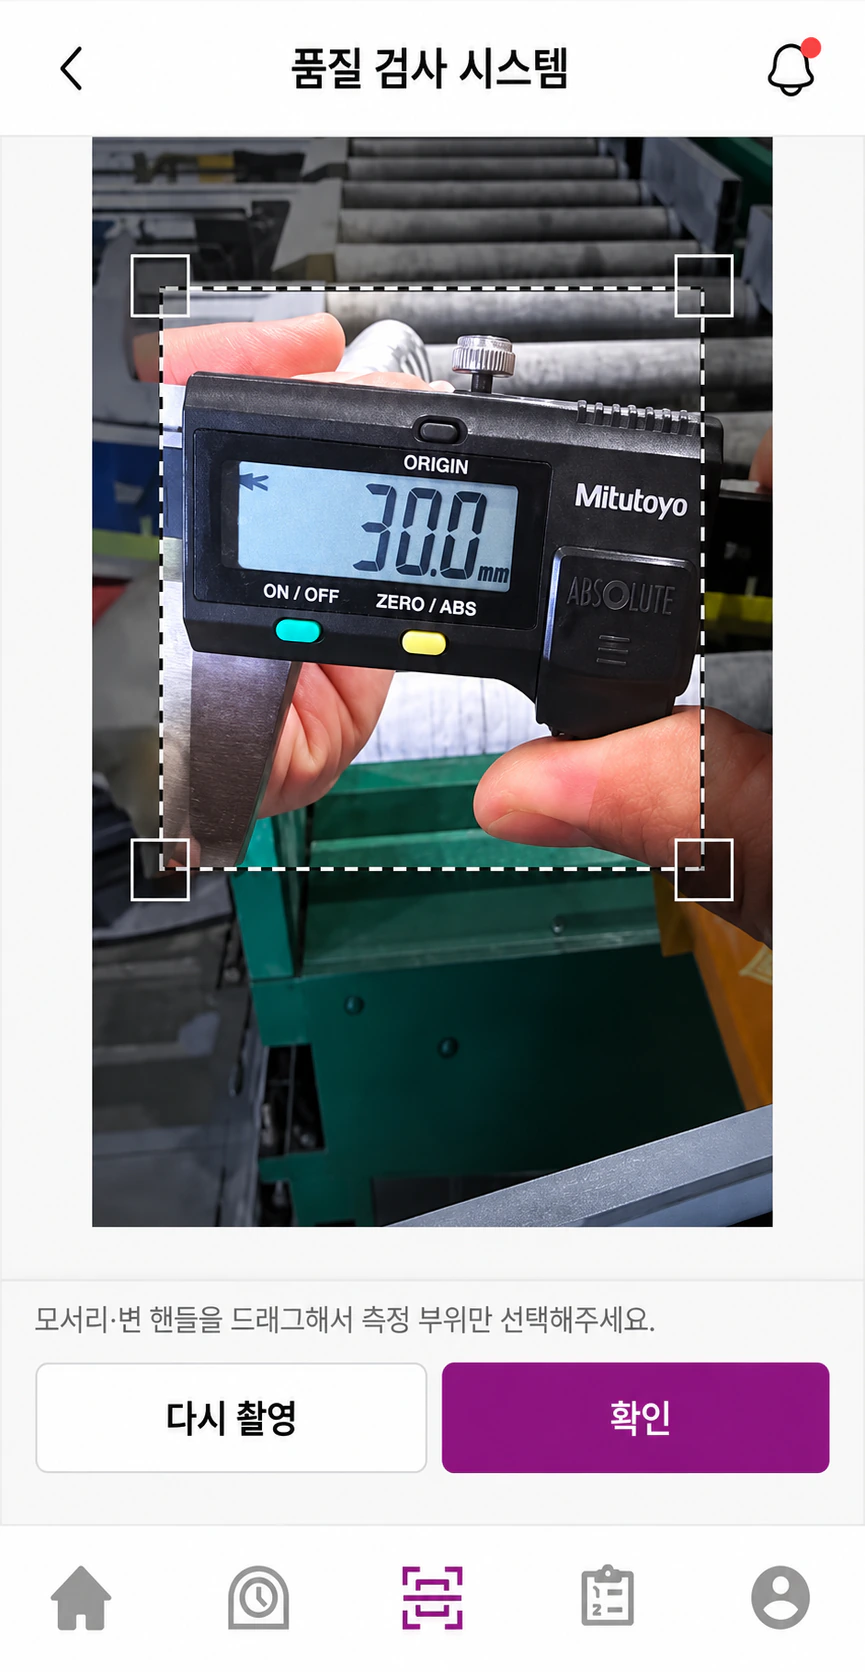
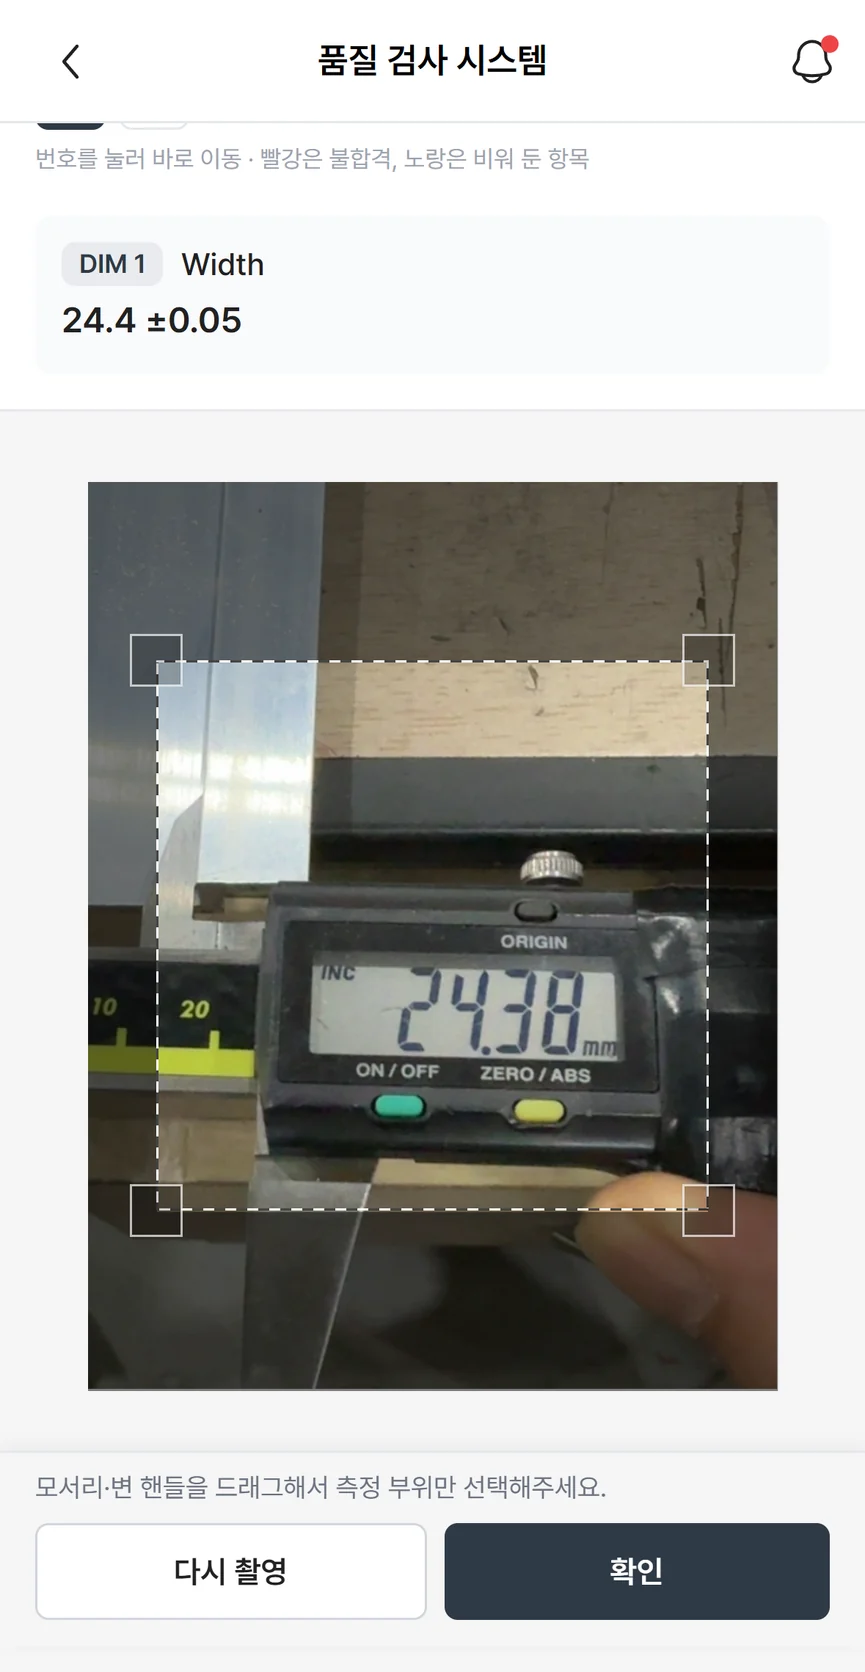
feat: 헤더 데모 신청 버튼, 첫 화면 문구 강조, 현황판 아래 버튼은 문의 폼으로, 앱 캡처를 CES 최종 UI로
- 헤더에 데모 신청 버튼: 문의 폼이 있는 페이지는 폼으로 스크롤, 개인정보처리방침에서는 대화상자
- 휴대폰 헤더는 로고·데모 신청·메뉴만, KOR/ENG 와 테마는 메뉴 시트로
- 첫 화면: 큰 체크 아이콘 대신 "전용 측정 장비·센서 공사 불필요"를 굵게, 아래에 구성(스마트폰·서버 PC·모니터),
  "대구 본사 공장 사내 검증 · IATF 16949"는 배지로
- 현황판 데모 아래 "우리 현장에 적용 문의"는 페이지 끝 문의 폼으로 이동
- 촬영·자르기·OCR 입력(폰), 순회검사 결재(웹), 일일 품질 요약 보고서를 CES 최종 캡처(국문·영문)로 교체, 대체 문구 갱신

diff --git a/src/components/layout/Nav.tsx b/src/components/layout/Nav.tsx
@@ -14,6 +14,7 @@ import { setTheme, useTheme } from '../../lib/theme';
 import { LG, pad2 } from '../../lib/env';
 import { cn } from '../../lib/cn';
 import { afterDialogEntry, useBackToClose } from '../../lib/history';
+import { openInquiry } from '../../lib/inquiry';
 import { Img } from '../Img';
 
 const LINKS = ['/qac-flow', '/data'] as const satisfies readonly Page[];
@@ -33,6 +34,9 @@ export function Nav({ page }: { page: Page }) {
   const closeSheet = () => sheet.current?.close();
   useBackToClose(sheetOpen, closeSheet);
   // a page link in the sheet: the sheet closes (taking its history entry back off), then the page opens
+  // the header's demo button: down to the form at the end of the page, or, on a page without one (the
+  // privacy policy), the same form in its dialog
+  const demo = (e: MouseEvent<HTMLAnchorElement>) => { if (!document.getElementById('contact')) openInquiry('header')(e); };
   const openFromSheet = (e: MouseEvent<HTMLAnchorElement>) => {
     if (e.metaKey || e.ctrlKey || e.shiftKey || e.altKey) return;
     e.preventDefault();
@@ -40,6 +44,26 @@ export function Nav({ page }: { page: Page }) {
     afterDialogEntry(() => router.push(href));
     closeSheet();
   };
+  // KOR / ENG: links to this page in the other language
+  const langs = (
+    <span className="mono flex gap-0.5 text-mute">
+      {LANGS.map((l, i) => (
+        <span key={l} className="contents">
+          {i > 0 && <i aria-hidden="true" className="mx-0.5 not-italic opacity-50">/</i>}
+          {l === lang
+            ? <span aria-current="true" lang={l} className="-my-2 px-1 py-2 font-medium text-fg">{m.langs[l]}</span>
+            : <a href={pathOf(page, l)} hrefLang={l} lang={l} onClick={() => noteLangPosition(page)}
+              className="-my-2 px-1 py-2 transition-colors duration-300 hover:text-fg-2">{m.langs[l]}</a>}
+        </span>
+      ))}
+    </span>
+  );
+  const themeButton = (
+    <button type="button" onClick={() => setTheme(theme === 'dark' ? 'light' : 'dark')} aria-label={theme === 'dark' ? m.theme.toLight : m.theme.toDark} className={ROUND_BTN}>
+      <SunIcon className="col-start-1 row-start-1 transition-[opacity,rotate] duration-500 ease-out light:-rotate-90 light:opacity-0" />
+      <MoonIcon className="col-start-1 row-start-1 rotate-90 opacity-0 transition-[opacity,rotate] duration-500 ease-out light:rotate-0 light:opacity-100" />
+    </button>
+  );
   return (
     <>
     <header id="nav" className="fixed inset-x-0 top-0 z-100 booting:opacity-0">
@@ -70,21 +94,11 @@ export function Nav({ page }: { page: Page }) {
             <i aria-hidden="true" className="not-italic opacity-50">|</i>
             <span aria-current="page" className="font-medium text-fg">{m.sites.solution}</span>
           </nav>
-          <span className="mono flex gap-0.5 text-mute max-sm:text-micro">
-            {LANGS.map((l, i) => (
-              <span key={l} className="contents">
-                {i > 0 && <i aria-hidden="true" className="mx-0.5 not-italic opacity-50">/</i>}
-                {l === lang
-                  ? <span aria-current="true" lang={l} className="-my-2 px-1 py-2 font-medium text-fg max-2xs:px-0.5">{m.langs[l]}</span>
-                  : <a href={pathOf(page, l)} hrefLang={l} lang={l} onClick={() => noteLangPosition(page)}
-                    className="-my-2 px-1 py-2 transition-colors duration-300 hover:text-fg-2 max-2xs:px-0.5">{m.langs[l]}</a>}
-              </span>
-            ))}
-          </span>
-          <button type="button" onClick={() => setTheme(theme === 'dark' ? 'light' : 'dark')} aria-label={theme === 'dark' ? m.theme.toLight : m.theme.toDark} className={ROUND_BTN}>
-            <SunIcon className="col-start-1 row-start-1 transition-[opacity,rotate] duration-500 ease-out light:-rotate-90 light:opacity-0" />
-            <MoonIcon className="col-start-1 row-start-1 rotate-90 opacity-0 transition-[opacity,rotate] duration-500 ease-out light:rotate-0 light:opacity-100" />
-          </button>
+          {/* on a phone the bar keeps the logo, the demo button and the menu; the language and the mode are in the sheet */}
+          <span className="max-sm:hidden">{langs}</span>
+          <a href="#contact" onClick={demo}
+            className="inline-flex min-h-9 flex-none items-center rounded-full border border-qf bg-qf px-4.5 text-body-sm font-semibold whitespace-nowrap text-on-acc transition-[filter] duration-300 hover:brightness-110 max-sm:min-h-8 max-sm:px-3 max-sm:text-caption">{t.qf.cta.demo}</a>
+          <span className="contents max-sm:hidden">{themeButton}</span>
           <button type="button" onClick={() => { sheet.current?.showModal(); setSheetOpen(true); }} aria-label={m.open} aria-haspopup="dialog" className={cn(ROUND_BTN, 'lg:hidden')}>
             <MenuIcon />
           </button>
@@ -111,6 +125,8 @@ export function Nav({ page }: { page: Page }) {
             ))}
           </ul>
         </nav>
+        {/* on a phone, the language and the mode the bar has no room for */}
+        <div className="mt-6 flex items-center justify-between sm:hidden">{langs}{themeButton}</div>
         <nav aria-label={m.sites.label} className="mt-auto pt-10">
           <span className="mono text-mute">{m.sites.label}</span>
           <ul className="m-0 mt-3 flex list-none flex-wrap gap-2 p-0">

diff --git a/src/views/qac-flow/sections/Intro.tsx b/src/views/qac-flow/sections/Intro.tsx
@@ -1,6 +1,6 @@
+import { CircleCheck, ShieldCheck } from 'lucide-react';
 import { lines, useT } from '../../../i18n';
-import { ICON } from '../../../components/icons';
-import { Band, Eyebrow, H2, Lead, LineIcon, Pill } from '../../../components/ui';
+import { Band, Eyebrow, H2, Lead, Pill } from '../../../components/ui';
 import { openInquiry } from '../../../lib/inquiry';
 import { DEMO_VIDEO, HERO_LOOP, openVideo } from '../../../lib/media';
 import { BOOTH, CES_END } from '../../../lib/site';
@@ -14,10 +14,6 @@ const MARK_PENDING = process.env.NODE_ENV === 'development';
  * the figures up front, and the app in two phones, the front one playing the hero loop over its still */
 export function Intro() {
   const t = useT(), m = t.qf;
-  const figures = [
-    <LineIcon d={ICON.checkCircle} className="size-[0.9em] text-qf-ink" />,
-    <span className="text-unit-lg">2026.06</span>
-  ];
   return (
     <Band id="qf-intro" cover>
       <div className="grid items-center gap-stack-sm md:grid-cols-[minmax(0,1.15fr)_minmax(0,.85fr)]">
@@ -34,15 +30,22 @@ export function Intro() {
               ? <Pill quiet href="#qf-how" aria-haspopup="dialog" onClick={e => { e.preventDefault(); openVideo(true); }}>{t.media.watch(DEMO_VIDEO.seconds)}</Pill>
               : MARK_PENDING && <span aria-hidden="true" className="inline-flex min-h-11 items-center rounded-full border border-dashed border-qf-line px-5.5 py-2.5 text-body-sm text-mute">{t.media.watch(90)} · 영상 자리</span>}
           </div>
-          <ul className="rv m-0 mt-8 grid list-none grid-cols-2 border-t border-line p-0 md:mt-10">
-            {figures.map((fig, i) => (
-              <li key={i} className="grid content-start gap-2 pt-4.5 pr-3 not-first:border-l not-first:border-line not-first:pl-stat-gap">
-                <b className="num flex h-[1em] items-center font-display text-stat leading-display font-extrabold whitespace-nowrap">{fig}</b>
-                <span className="text-caption leading-caption text-fg-2">{m.stats[i]}</span>
-              </li>
-            ))}
+          {/* the claims themselves are the headline: what it doesn't need (and what it does), and since when it runs */}
+          <ul className="rv m-0 mt-8 grid list-none grid-cols-2 border-t border-line p-0 md:mt-10 max-2xs:grid-cols-1">
+            <li className="grid content-start gap-2 pt-5 pr-4">
+              <b className="flex items-start gap-2.5 text-title leading-snug font-semibold text-fg">
+                <CircleCheck aria-hidden="true" className="mt-0.5 size-6 flex-none text-qf-ink" strokeWidth={2} />{m.stats[0]}
+              </b>
+              <span className="text-body-sm leading-caption text-fg-2">{m.kit}</span>
+            </li>
+            <li className="grid content-start gap-2 border-l border-line pt-5 pl-stat-gap max-2xs:border-t max-2xs:border-l-0 max-2xs:pl-0">
+              <b className="num font-display text-stat leading-display font-extrabold whitespace-nowrap text-fg">2026.06</b>
+              <span className="text-body-sm leading-caption font-medium text-fg">{m.stats[1]}</span>
+            </li>
           </ul>
-          <p className="rv mono m-0 mt-4 text-mute">{m.statsNote}</p>
+          <p className="rv m-0 mt-5 inline-flex items-center gap-2 rounded-full border border-qf-line bg-qf-soft px-4 py-2 text-body-sm font-medium text-fg">
+            <ShieldCheck aria-hidden="true" className="size-4.5 flex-none text-qf-ink" strokeWidth={2} />{m.statsNote}
+          </p>
         </div>
         {/* a soft green light behind the phones */}
         <div className="rv relative isolate before:absolute before:inset-[8%_-10%_0] before:-z-1 before:bg-radial-[closest-side] before:from-qf-soft before:to-transparent before:to-70% max-md:before:inset-[8%_0_0]">

diff --git a/src/i18n/locales/en.ts b/src/i18n/locales/en.ts
@@ -57,6 +57,7 @@ export const en: Messages = {
     title: 'Quality inspection without paper check sheets.',
     lead: 'Measure, judge and issue the report, all from one smartphone.\nBuilt and proven in DVISION\'s own factory.',
     stats: ['No dedicated gauges or sensor installation', 'Started running in our own plant'],
+    kit: 'A smartphone, one server PC and a monitor',
     statsNote: 'In-house validation at our Daegu HQ plant · IATF 16949',
     cta: { demo: 'Request a demo', apply: 'Ask about your floor' },
     ces: {
@@ -67,13 +68,13 @@ export const en: Messages = {
       after: 'Missed us at CES 2027? Get the booth demo online'
     },
     alt: {
-      capture: 'Smartphone camera framing the display of a digital caliper reading 30.00 mm',
+      capture: 'Smartphone camera framing the display of a digital caliper reading 24.38 mm',
       ocr: 'App screen: the caliper reading is filled in by OCR and judged as a pass against the tolerance',
       crop: 'App screen: dragging the corner handles of a box to crop the photo down to the caliper reading',
       compare: 'Mobile patrol inspection screen comparing self-inspection and patrol inspection values per dimension, with a mismatch marked as fail',
       photos: 'Side-by-side photos of the same caliper reading taken at self-inspection and at patrol inspection',
-      approval: 'PC web approval screen: self-inspection and patrol inspection results compared, with an Approve and issue report button',
-      report: 'Fully approved inspection report: basic information such as process and machine, the prepared, reviewed and approved signatures, and self and patrol inspection results for each round'
+      approval: 'PC web patrol inspection approval screen: self and patrol inspection values compared per dimension, with Reject and Approve (issue report) buttons',
+      report: 'Daily quality summary report: pass rate, key Cpk, inspection count and issues, an X̄-R control chart, the prepared, reviewed and approved sign-offs and an authenticity QR code'
     },
     problem: {
       kicker: '01 / Problem',

diff --git a/src/i18n/locales/ko.ts b/src/i18n/locales/ko.ts
@@ -68,6 +68,8 @@ export const ko = {
     lead: '스마트폰 하나로 측정, 판정, 보고서 발행까지.\n디비전 공장에서 직접 만들고 검증했습니다.',
     /** the figures up front: what it doesn't need, and since when it runs in our own plant */
     stats: ['전용 측정 장비·센서 공사 불필요', '자사 공장 운영 시작'],
+    /** under the first figure: what it does take */
+    kit: '스마트폰 · 서버 PC 1대 · 모니터면 충분',
     statsNote: '대구 본사 공장 사내 검증 · IATF 16949',
     /** the buttons that lead to the demo request form (#contact) */
     cta: { demo: '데모 신청', apply: '우리 현장에 적용 문의' },
@@ -85,8 +87,8 @@ export const ko = {
       crop: '촬영한 사진에서 모서리 핸들을 끌어 측정값 부위만 잘라내는 화면',
       compare: '모바일 순회검사 결재 화면: 치수별 자주검사와 순회검사 측정값 비교, 불일치 항목은 불합격 표시',
       photos: '자주검사와 순회검사의 측정 사진을 나란히 대조하는 화면',
-      approval: 'PC 웹 결재 화면: 자주검사와 순회검사 결과 비교 후 승인, 보고서 발행 버튼',
-      report: '결재가 끝난 검사보고서: 공정과 설비 등 기본 정보, 작성·검토·승인 서명, 차수별 자주검사와 순회검사 외관 결과'
+      approval: 'PC 웹 순회검사 결재 화면: 치수별 자주검사와 순회검사 측정값 비교, 반려와 승인(보고서 발행) 버튼',
+      report: '일일 품질 요약 보고서: 합격률·대표 Cpk·검사 건수·이상 발생 지표, X̄-R 관리도, 작성·검토·승인 결재와 진위 확인 QR'
     },
     problem: {
       kicker: '01 / Problem',

diff --git a/src/views/qac-flow/sections/Live.tsx b/src/views/qac-flow/sections/Live.tsx
@@ -7,7 +7,6 @@ import { LG, SM } from '../../../lib/env';
 import { useMedia } from '../../../lib/useMedia';
 import { QacMonitor, SCREENS, type MonitorScreen } from '../../../features/qac-monitor/QacMonitor';
 import { QacPhone } from '../../../features/qac-monitor/QacPhone';
-import { openInquiry } from '../../../lib/inquiry';
 import { Head } from '../parts';
 
 const N = SCREENS.length;
@@ -46,7 +45,8 @@ export function Live() {
       </div>
       <div className="flex flex-wrap items-center justify-between gap-x-8 gap-y-4">
         <p className="mono m-0 text-micro text-mute">{l.note}</p>
-        <Pill quiet href="#contact" aria-haspopup="dialog" onClick={openInquiry('live')} className="flex-none">{cta.apply}</Pill>
+        {/* goes down to the demo request form at the end of the page (smoothAnchors glides there) */}
+        <Pill quiet href="#contact" className="flex-none">{cta.apply}</Pill>
       </div>
     </Band>
   );

diff --git a/src/server/inquiry.ts b/src/server/inquiry.ts
@@ -28,7 +28,7 @@ type Lang = 'ko' | 'en';
 const labels: Record<Field, string> = { name: '이름', email: '회사 이메일', company: '회사명' };
 const subjects: Record<Lang, string> = { ko: '[QAC FLOW 데모 신청]', en: '[QAC FLOW 데모 신청 · 영문]' };
 /** which button brought the visitor to the form, and from which page (Resend tags only) */
-const sources = ['hero', 'live', 'partner', 'page'];
+const sources = ['header', 'hero', 'live', 'partner', 'page'];
 const pages = ['/qac-flow', '/data'];
 
 const emailPattern = /^[^\s@<>"(),;:]+@[^\s@<>"(),;:]+\.[^\s@<>"(),;:]+$/;

diff --git a/src/lib/inquiry.ts b/src/lib/inquiry.ts
@@ -6,8 +6,8 @@ import type { MouseEvent } from 'react';
 import type { Lang } from '../i18n';
 import { createStore, useStore } from './store';
 
-/** where the visitor asked from: a button (the hero, the live monitor, the partnership tags) or the form at the page's end */
-export type InquirySource = 'hero' | 'live' | 'partner' | 'page';
+/** where the visitor asked from: a button (the header, the hero, the partnership tags) or the form at the page's end */
+export type InquirySource = 'header' | 'hero' | 'live' | 'partner' | 'page';
 
 export type Inquiry = {
   lang: Lang;

diff --git a/src/views/qac-flow/sections/Trace.tsx b/src/views/qac-flow/sections/Trace.tsx
@@ -20,7 +20,7 @@ export function Trace() {
               </li>
             ))}
           </ul>
-          <Browser className="rv" src="web-approval.jpg" alt={m.alt.approval} sizes="(max-width: 1000px) 100vw, 860px" />
+          <Browser className="rv" src="web-approval.webp" alt={m.alt.approval} sizes="(max-width: 1000px) 100vw, 860px" />
         </div>
       </div>
     </Band>
